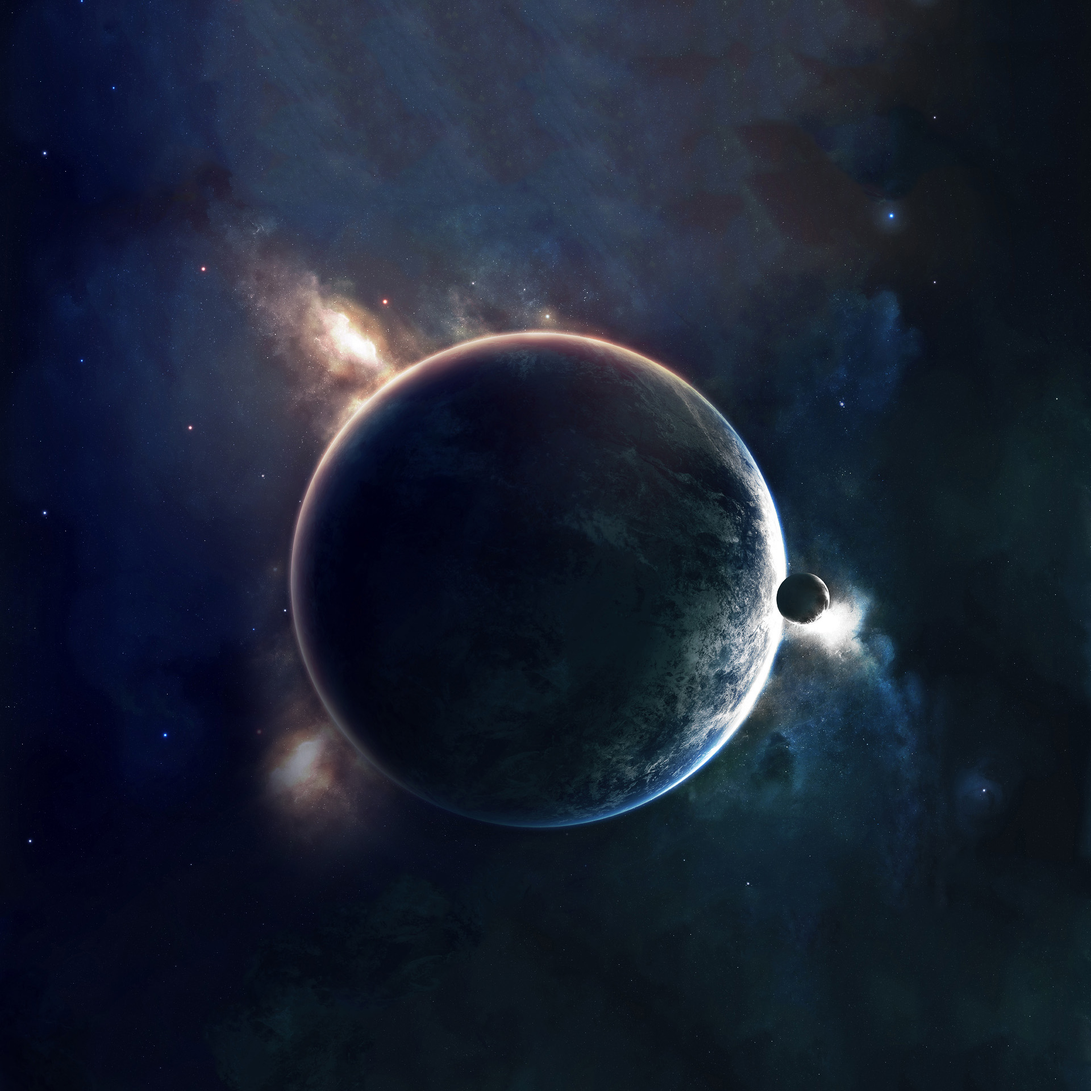
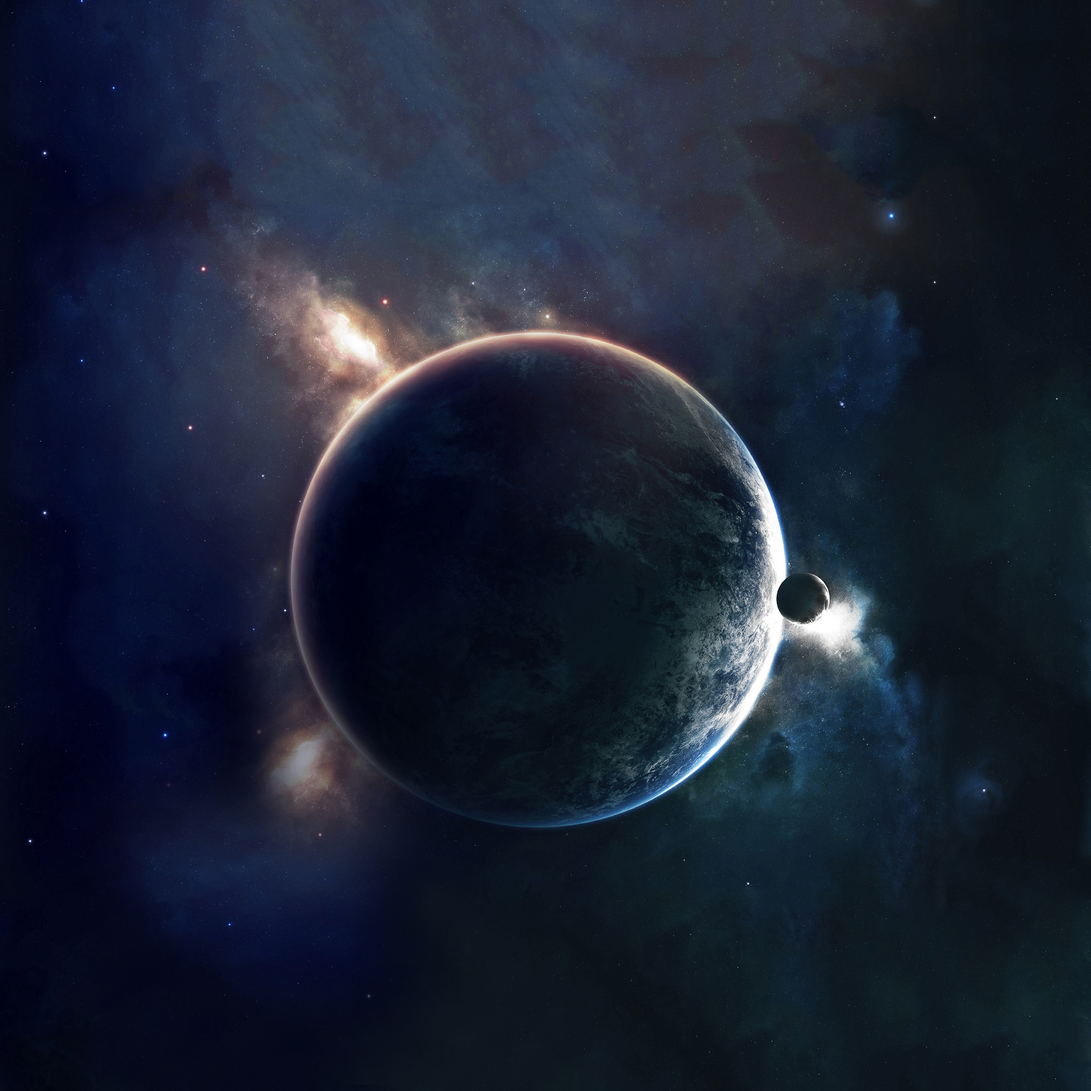
Fixed background size in View.cpp

Changed region(s): [[0.125, 0.75, 0.3438, 0.875]]

diff --git a/src/rtype/menu/View.cpp b/src/rtype/menu/View.cpp
@@ -11,7 +11,7 @@ View::View(const std::string& texture, const sf::Vector2u& size, const sf::Vecto
   _texture.loadFromFile(texture);
   _background.setTexture(_texture);
   _background.setPosition(size.x, size.y);
-  _background.setOrigin(1920 / 2, 1200 / 2);
+  _background.setOrigin(1920 / 2, 1920 / 2);
   _background.scale(1.8,1.8);
   x = (_size.x / 2) - (listItemSize.x / 2);
   y = (_size.y / 2) - (MAX_ROW * listItemSize.y / 2);
